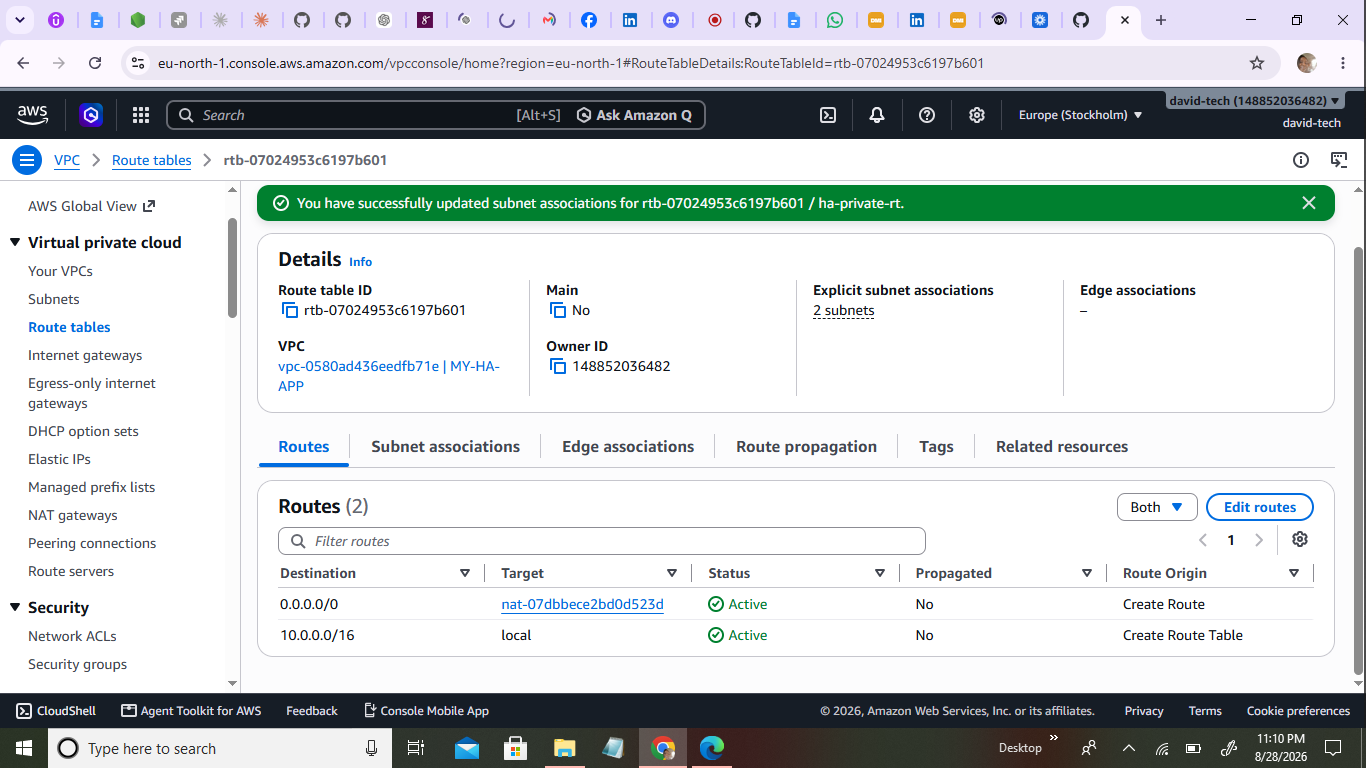
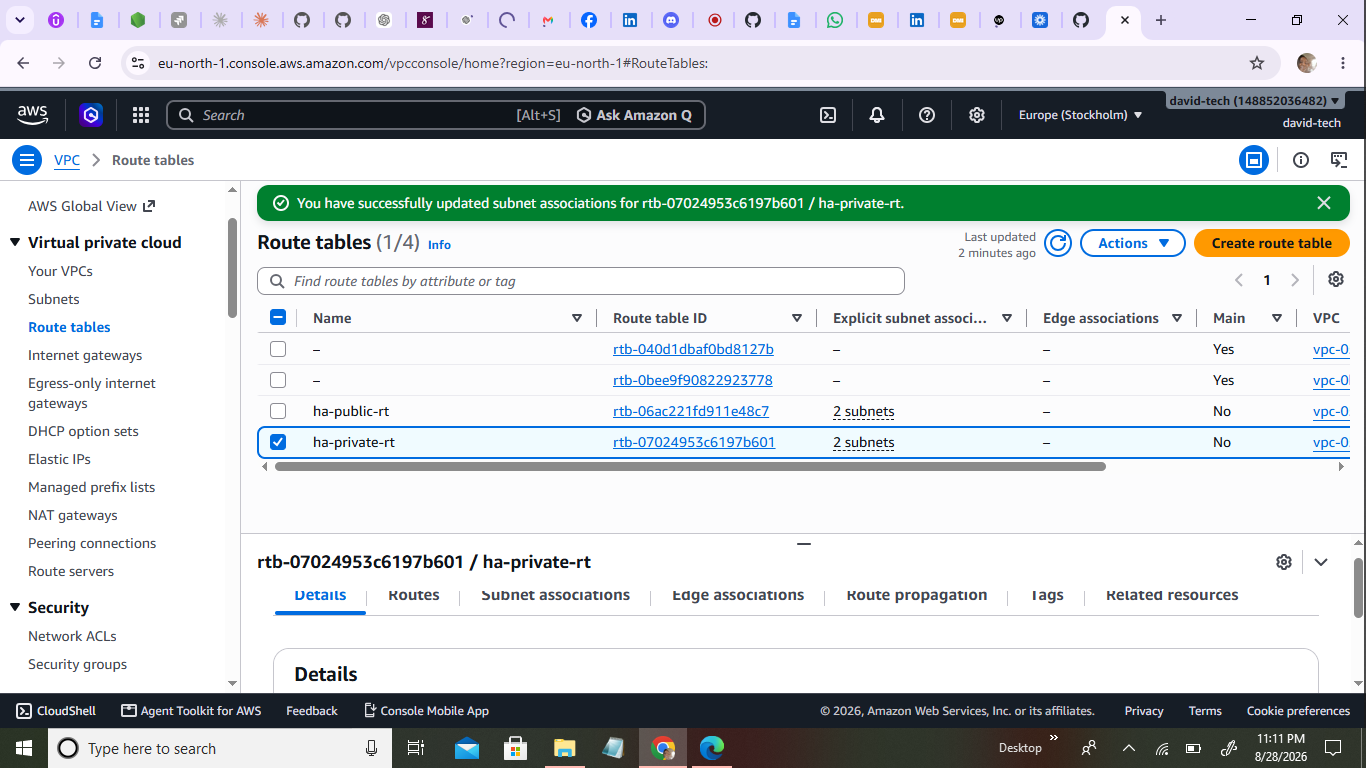
HA two tier update

diff --git a/week-06-aws-cloud/assignment-05-deploy-a-highly-available-two-tier-application-on-aws.md b/week-06-aws-cloud/assignment-05-deploy-a-highly-available-two-tier-application-on-aws.md
@@ -20,31 +20,32 @@ Build a VPC (10.0.0.0/16) with two public and two private subnets across two Ava
 
 #### Screenshot 1 — VPC details showing CIDR 10.0.0.0/16
 
-Add your screenshot here.
+![](<screenshots/Assignment 5/Screenshot 1.png>).
 
 ---
 
 #### Screenshot 2 — Subnets list showing four subnets and their Availability Zones
 
-Add your screenshot here.
+![](<screenshots/Assignment 5/Screenshot 2(a).png>).
+![](<screenshots/Assignment 5/Screenshot 2(b).png>)
 
 ---
 
 #### Screenshot 3 — Public route table showing the Internet Gateway route and both public-subnet associations
 
-Add your screenshot here.
+![](<screenshots/Assignment 5/Screenshot 3.png>).
 
 ---
 
 #### Screenshot 4 — Private route table showing the NAT Gateway route and both private-subnet associations
 
-Add your screenshot here.
+![](<screenshots/Assignment 5/Screenshot 4.png>).
 
 ---
 
 #### Screenshot 5 — NAT Gateway status showing Available and the Elastic IP
 
-Add your screenshot here.
+![](<screenshots/Assignment 5/Screenshot 5.png>).
 
 ---
 
@@ -58,19 +59,19 @@ Create `ha-alb-sg` (HTTP public), `ha-web-sg` (HTTP only from `ha-alb-sg`, SSH f
 
 #### Screenshot 6 — ALB Security Group inbound rules
 
-Add your screenshot here.
+![](<screenshots/Assignment 5/Screenshot 6.png>).
 
 ---
 
 #### Screenshot 7 — EC2 Security Group inbound rules showing the ALB Security Group reference and SSH from your IP
 
-Add your screenshot here.
+![](<screenshots/Assignment 5/Screenshot 7.png>).
 
 ---
 
 #### Screenshot 8 — RDS Security Group inbound rule showing the database port allowed only from the EC2 Security Group
 
-Add your screenshot here.
+![](<screenshots/Assignment 5/Screenshot 8.png>).
 
 ---
 
@@ -84,13 +85,13 @@ Launch a private, Multi-AZ RDS database (MySQL or PostgreSQL) using the private 
 
 #### Screenshot 9 — RDS summary showing Multi-AZ = Yes and Publicly accessible = No
 
-Add your screenshot here.
+![](<screenshots/Assignment 5/Screenshot 9.png>).
 
 ---
 
 #### Screenshot 10 — RDS connectivity section showing the DB Subnet Group and Security Group
 
-Add your screenshot here.
+![](<screenshots/Assignment 5/Screenshot 10.png>).
 
 ---
 
@@ -104,13 +105,13 @@ Create a Launch Template whose user data installs the web-server runtime, deploy
 
 #### Screenshot 11 — Launch Template details showing that user data exists, including a visible snippet
 
-Add your screenshot here.
+![](<screenshots/Assignment 5/Screenshot 11.png>).
 
 ---
 
 #### Screenshot 12 — A running instance created from the template showing that the application responds on port 80 through a local test or browser using its public IP
 
-Add your screenshot here.
+![](<screenshots/Assignment 5/Screenshot  12.png>).
 
 ---
 
@@ -124,13 +125,13 @@ Create an internet-facing ALB across both public subnets with an HTTP listener a
 
 #### Screenshot 13 — ALB details showing two public subnets in two Availability Zones
 
-Add your screenshot here.
+![](<screenshots/Assignment 5/Screenshot 13.png>).
 
 ---
 
 #### Screenshot 14 — Target group showing at least one healthy target
 
-Add your screenshot here.
+![](<screenshots/Assignment 5/Screenshot 14.png>).
 
 ---
 
@@ -144,13 +145,14 @@ Create an Auto Scaling Group from the Launch Template across both public subnets
 
 #### Screenshot 15 — Auto Scaling Group showing desired, minimum, and maximum capacity and the selected subnet Availability Zones
 
-Add your screenshot here.
+![](<screenshots/Assignment 5/Screenshot 15(a).png>).
+![](<screenshots/Assignment 5/Screenshot 15(b).png>)
 
 ---
 
 #### Screenshot 16 — EC2 instances list showing two running instances in different Availability Zones
 
-Add your screenshot here.
+![](<screenshots/Assignment 5/Screenshot 16.png>).
 
 ---
 
@@ -164,13 +166,13 @@ Confirm the application communicates with the RDS database through the ALB DNS n
 
 #### Screenshot 17 — Browser showing the application loaded through the ALB DNS name with the URL visible
 
-Add your screenshot here.
+![](<screenshots/Assignment 5/Screenshot 17.png>).
 
 ---
 
 #### Screenshot 18 — Proof of a database write through a UI message or database query output
 
-Add your screenshot here.
+![](<screenshots/Assignment 5/Screenshot 18.png>).
 
 ---
 
@@ -186,25 +188,25 @@ Test B: simulate an Availability Zone impact (stop, detach, or reduce desired ca
 
 #### Screenshot 19 — EC2 showing the terminated instance and the newly launched instance; timestamps are helpful
 
-Add your screenshot here.
+![](<screenshots/Assignment 5/Screenshot 19.png>).
 
 ---
 
 #### Screenshot 20 — Target group showing healthy targets after replacement
 
-Add your screenshot here.
+![](<screenshots/Assignment 5/Screenshot 20.png>).
 
 ---
 
 #### Screenshot 21 — Evidence that an instance was removed, detached, placed in Standby, or stopped in one Availability Zone
 
-Add your screenshot here.
+![](<screenshots/Assignment 5/Screenshot 21(a).png>).
 
 ---
 
 #### Screenshot 22 — Browser showing that the ALB DNS endpoint still works during the change
 
-Add your screenshot here.
+![](<screenshots/Assignment 5/Screenshot 22.png>).
 
 ---
 
@@ -218,7 +220,7 @@ Summarize the VPC/subnet layout, the ALB and Auto Scaling Group setup, the priva
 
 #### Screenshot 23 — A simple architecture diagram, which may be hand-drawn, or an AWS console overview showing the components
 
-Add your screenshot here.
+![](<screenshots/Assignment 5/Screenshot 23.png>).
 
 ---
 
@@ -226,19 +228,24 @@ Add your screenshot here.
 
 Summarize the VPC and subnets across the two Availability Zones.
 
-Write your answer here.
+VPC Name: MY-HA-APP
+CIDR Block: 10.0.0.0/16
+Region: eu-north-1 (Europe — Stockholm)
+Internet Gateway: ha-igw (attached to MY-HA-APP VPC)
+NAT Gateway: ha-nat-gw (deployed in ha-public-1a with Elastic IP).\
+Both public subnets span two Availability Zones (eu-north-1a and eu-north-1b) ensuring the ALB distributes traffic across two independent fault domains. Both private subnets also span two AZs ensuring the Multi-AZ RDS has a primary instance in eu-north-1a and an automatic standby in eu-north-1b for failover.
 
 Summarize the ALB and Auto Scaling Group setup.
 
-Write your answer here.
+The ASG maintains a minimum of 2 instances, one in each Availability Zone at all times. If either instance fails its ELB health check, the ASG automatically terminates it and launches a replacement in the same AZ. The ALB detects unhealthy targets and stops routing traffic to them within seconds, while continuing to serve traffic through the healthy instance in the other AZ. Once the replacement instance passes its health checks, the ALB resumes sending traffic to both AZs restoring full redundancy.
 
 Summarize the private Multi-AZ RDS setup.
 
-Write your answer here.
+The RDS instance uses Multi-AZ deployment which maintains a synchronous standby replica in a separate Availability Zone. AWS automatically replicates all data from the primary instance in eu-north-1b to the standby in eu-north-1a in real time. If the primary instance fails, experiences a hardware fault, or requires maintenance, AWS automatically promotes the standby to primary within 60-120 seconds without any manual intervention. The endpoint DNS name remains the same throughout failover so the application reconnects automatically.
 
 Summarize the results of both high-availability tests.
 
-Write your answer here.
+The ALB is the critical HA component it continuously monitors instance health and reroutes traffic within seconds of detecting a failure. The ASG ensures minimum capacity is always maintained by automatically replacing terminated instances. The Multi-AZ RDS provides database-level HA independently of the web tier even if the primary database AZ fails, the standby promotes automatically without any application change required. Together these three components ALB, ASG, and Multi-AZ RDS create redundancy at every layer of the two-tier architecture ensuring no single point of failure can take down the application.
 
 ---
 
@@ -254,13 +261,13 @@ Publish a LinkedIn post about the high-availability build, including the ALB URL
 
 Paste your LinkedIn post URL here:
 
-`Add your URL here`
+https://www.linkedin.com/posts/hope-odu_highly-available-two-tier-application-on-activity-7501260315515564034-9b1n?utm_source=share&utm_medium=member_desktop&rcm=ACoAAFi9QKUB8YFTHgZLGCY97rJ9u0Stdj7th8Q`
 
 ---
 
 #### Screenshot of LinkedIn post
 
-Add your screenshot here.
+![](<screenshots/Assignment 5/Screenshot of linkedin post.png>).
 
 ---
 

diff --git a/week-07-azure-cloud/assignment-01-create-and-set-up-your-azure-free-account.md b/week-07-azure-cloud/assignment-01-create-and-set-up-your-azure-free-account.md
@@ -30,13 +30,13 @@ Sign in to the Azure Portal, locate key services (Resource Groups, Virtual Machi
 
 #### Screenshot 1 — Azure Portal homepage after successful login
 
-Add your screenshot here.
+![](<screenshots/Assignment 1/Screenshot 1.png>).
 
 ---
 
 #### Screenshot 2 — "Subscriptions" section showing the "Free Trial" subscription
 
-Add your screenshot here.
+![](<screenshots/Assignment 1/Screenshot 2.png>).
 
 ---
 
